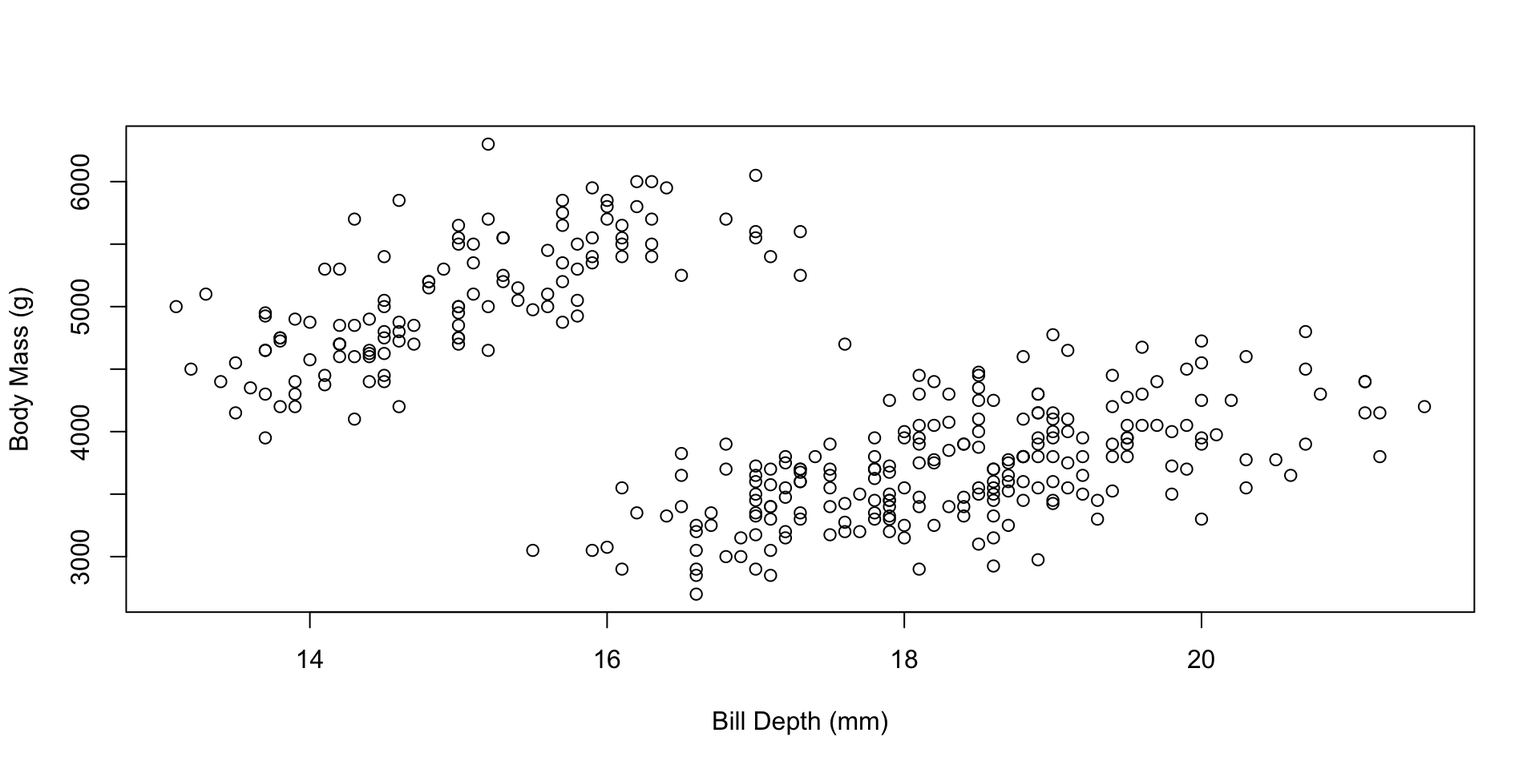
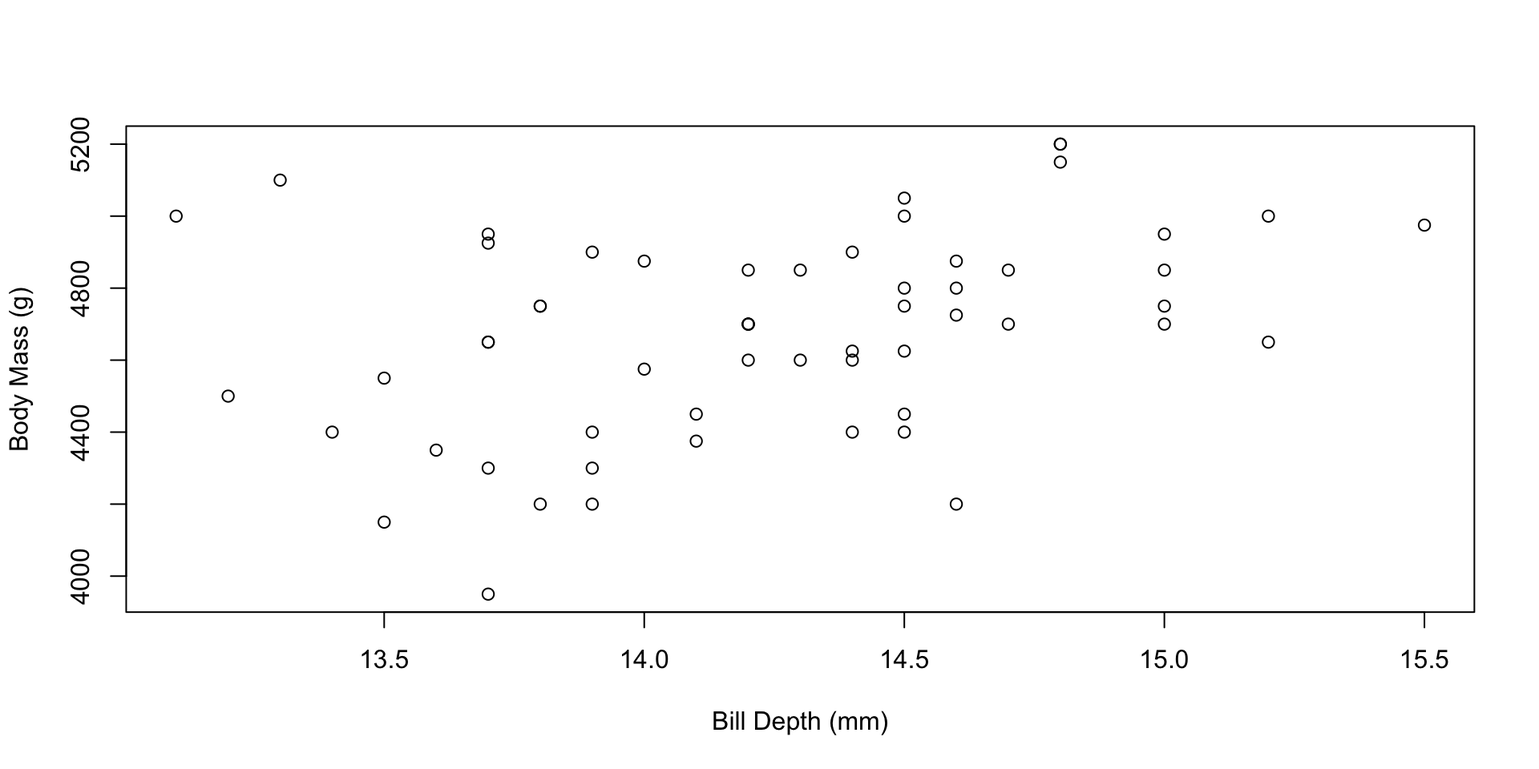
Deleted redundant slides, fixed bugs, and added our names

diff --git a/basics.html b/basics.html
@@ -395,7 +395,8 @@
 <section>
 <section id="r" class="title-slide slide level1 center">
 <h1><code>R</code></h1>
-<p>Basics</p>
+<p>Dr.&nbsp;Miguel Acevedo (University of Florida)</p>
+<p>Dr.&nbsp;Luis J. Villanueva-Rivera (Smithsonian)</p>
 </section>
 <section id="what-is-r" class="slide level2">
 <h2>What is <code>R</code>?</h2>
@@ -829,53 +830,9 @@
 <div class="cell">
 <div class="sourceCode cell-code" id="cb65"><pre class="sourceCode numberSource r number-lines code-with-copy" data-id="quarto-animate-code"><code class="sourceCode r hljs"><span id="cb65-1" class="hljs-ln-code"><a href="#cb65-1"></a><span class="co">#Vector of lizards' weight</span></span>
 <span id="cb65-2" class="hljs-ln-code"><a href="#cb65-2"></a>lizards_weight <span class="ot">&lt;-</span> <span class="fu">c</span>(<span class="fl">2.25</span>, <span class="fl">4.45</span>, <span class="fl">1.75</span>)</span>
-<span id="cb65-3" class="hljs-ln-code"><a href="#cb65-3"></a>lizards_weight <span class="sc">&gt;</span> <span class="dv">2</span></span></code><button title="Copy to Clipboard" class="code-copy-button"><i class="bi"></i></button></pre></div>
-<div class="cell-output cell-output-stdout">
-<pre><code>[1]  TRUE  TRUE FALSE</code></pre>
-</div>
-</div>
-</div>
-</div>
-</section>
-<section id="logic-operators-2" class="slide level2" data-auto-animate="true">
-<h2 data-id="quarto-animate-title">Logic Operators</h2>
-<div class="columns">
-<div class="column" style="width:100%;">
-<ul>
-<li>Allow for comparisons among data types</li>
-</ul>
-<div class="cell">
-<div class="sourceCode cell-code" id="cb67"><pre class="sourceCode numberSource r number-lines code-with-copy"><code class="sourceCode r"><span id="cb67-1"><a href="#cb67-1"></a><span class="co">#Vector of lizards' weight</span></span>
-<span id="cb67-2"><a href="#cb67-2"></a>lizards_weight <span class="ot">&lt;-</span> <span class="fu">c</span>(<span class="fl">2.25</span>, <span class="fl">4.45</span>, <span class="fl">1.75</span>)</span>
-<span id="cb67-3"><a href="#cb67-3"></a>lizards_weight <span class="sc">&gt;</span> <span class="dv">2</span></span></code><button title="Copy to Clipboard" class="code-copy-button"><i class="bi"></i></button></pre></div>
-<div class="cell-output cell-output-stdout">
-<pre><code>[1]  TRUE  TRUE FALSE</code></pre>
-</div>
-<div class="sourceCode cell-code" id="cb69"><pre class="sourceCode numberSource r number-lines code-with-copy"><code class="sourceCode r"><span id="cb69-1"><a href="#cb69-1"></a>lizards_weight[lizards_weight <span class="sc">&gt;</span> <span class="dv">2</span>] <span class="co">#greater than</span></span></code><button title="Copy to Clipboard" class="code-copy-button"><i class="bi"></i></button></pre></div>
+<span id="cb65-3" class="hljs-ln-code"><a href="#cb65-3"></a>lizards_weight[lizards_weight <span class="sc">&gt;</span> <span class="dv">2</span>] <span class="co">#greater than</span></span></code><button title="Copy to Clipboard" class="code-copy-button"><i class="bi"></i></button></pre></div>
 <div class="cell-output cell-output-stdout">
 <pre><code>[1] 2.25 4.45</code></pre>
-</div>
-</div>
-</div>
-</div>
-</section>
-<section id="logic-operators-3" class="slide level2" data-auto-animate="true">
-<h2 data-id="quarto-animate-title">Logic Operators</h2>
-<div class="columns">
-<div class="column" style="width:100%;">
-<ul>
-<li>Allow for comparisons among data types</li>
-</ul>
-<div class="cell">
-<div class="sourceCode cell-code" id="cb71"><pre class="sourceCode numberSource r number-lines code-with-copy"><code class="sourceCode r"><span id="cb71-1"><a href="#cb71-1"></a><span class="co">#Vector of lizards' weight</span></span>
-<span id="cb71-2"><a href="#cb71-2"></a>lizards_weight <span class="ot">&lt;-</span> <span class="fu">c</span>(<span class="fl">2.25</span>, <span class="fl">4.45</span>, <span class="fl">1.75</span>)</span>
-<span id="cb71-3"><a href="#cb71-3"></a>lizards_weight <span class="sc">&gt;</span> <span class="dv">2</span></span></code><button title="Copy to Clipboard" class="code-copy-button"><i class="bi"></i></button></pre></div>
-<div class="cell-output cell-output-stdout">
-<pre><code>[1]  TRUE  TRUE FALSE</code></pre>
-</div>
-<div class="sourceCode cell-code" id="cb73"><pre class="sourceCode numberSource r number-lines code-with-copy"><code class="sourceCode r"><span id="cb73-1"><a href="#cb73-1"></a>lizards_weight[lizards_weight <span class="sc">&lt;</span> <span class="dv">2</span>] <span class="co">#less than</span></span></code><button title="Copy to Clipboard" class="code-copy-button"><i class="bi"></i></button></pre></div>
-<div class="cell-output cell-output-stdout">
-<pre><code>[1] 1.75</code></pre>
 </div>
 </div>
 </div>
@@ -956,8 +913,8 @@
 <div class="columns">
 <div class="column" style="width:100%;">
 <div class="cell">
-<div class="sourceCode cell-code" id="cb75"><pre class="sourceCode numberSource r number-lines code-with-copy" data-id="quarto-animate-code"><code class="sourceCode r hljs"><span id="cb75-1" class="hljs-ln-code"><a href="#cb75-1"></a><span class="co">#simulated vector of female dolphins data</span></span>
-<span id="cb75-2" class="hljs-ln-code"><a href="#cb75-2"></a>dolphins_f <span class="ot">&lt;-</span> <span class="fu">c</span>(<span class="dv">190</span>,<span class="dv">200</span>,<span class="dv">185</span>,<span class="dv">189</span>,<span class="dv">189</span>,<span class="dv">210</span>,<span class="dv">195</span>,<span class="dv">220</span>)</span></code><button title="Copy to Clipboard" class="code-copy-button"><i class="bi"></i></button></pre></div>
+<div class="sourceCode cell-code" id="cb67"><pre class="sourceCode numberSource r number-lines code-with-copy" data-id="quarto-animate-code"><code class="sourceCode r hljs"><span id="cb67-1" class="hljs-ln-code"><a href="#cb67-1"></a><span class="co">#simulated vector of female dolphins data</span></span>
+<span id="cb67-2" class="hljs-ln-code"><a href="#cb67-2"></a>dolphins_f <span class="ot">&lt;-</span> <span class="fu">c</span>(<span class="dv">190</span>,<span class="dv">200</span>,<span class="dv">185</span>,<span class="dv">189</span>,<span class="dv">189</span>,<span class="dv">210</span>,<span class="dv">195</span>,<span class="dv">220</span>)</span></code><button title="Copy to Clipboard" class="code-copy-button"><i class="bi"></i></button></pre></div>
 </div>
 </div>
 </div>
@@ -970,10 +927,10 @@
 <li>Which dolphins in this data set have a weight between 190 and 220 Kg?</li>
 </ul>
 <div class="cell">
-<div class="sourceCode cell-code" id="cb76"><pre class="sourceCode numberSource r number-lines code-with-copy" data-id="quarto-animate-code"><code class="sourceCode r hljs"><span id="cb76-1" class="hljs-ln-code"><a href="#cb76-1"></a><span class="co">#simulated vector of female dolphins data</span></span>
-<span id="cb76-2" class="hljs-ln-code"><a href="#cb76-2"></a>dolphins_f <span class="ot">&lt;-</span> <span class="fu">c</span>(<span class="dv">190</span>,<span class="dv">200</span>,<span class="dv">185</span>,<span class="dv">189</span>,<span class="dv">189</span>,<span class="dv">210</span>,<span class="dv">195</span>,<span class="dv">220</span>)</span>
-<span id="cb76-3" class="hljs-ln-code"><a href="#cb76-3"></a><span class="co">#average female weight is 190</span></span>
-<span id="cb76-4" class="hljs-ln-code"><a href="#cb76-4"></a>dolphins_f[dolphins_f <span class="sc">&gt;</span> <span class="dv">190</span> <span class="sc">&amp;</span> dolphins_f <span class="sc">&lt;</span> <span class="dv">220</span>]</span></code><button title="Copy to Clipboard" class="code-copy-button"><i class="bi"></i></button></pre></div>
+<div class="sourceCode cell-code" id="cb68"><pre class="sourceCode numberSource r number-lines code-with-copy" data-id="quarto-animate-code"><code class="sourceCode r hljs"><span id="cb68-1" class="hljs-ln-code"><a href="#cb68-1"></a><span class="co">#simulated vector of female dolphins data</span></span>
+<span id="cb68-2" class="hljs-ln-code"><a href="#cb68-2"></a>dolphins_f <span class="ot">&lt;-</span> <span class="fu">c</span>(<span class="dv">190</span>,<span class="dv">200</span>,<span class="dv">185</span>,<span class="dv">189</span>,<span class="dv">189</span>,<span class="dv">210</span>,<span class="dv">195</span>,<span class="dv">220</span>)</span>
+<span id="cb68-3" class="hljs-ln-code"><a href="#cb68-3"></a><span class="co">#average female weight is 190</span></span>
+<span id="cb68-4" class="hljs-ln-code"><a href="#cb68-4"></a>dolphins_f[dolphins_f <span class="sc">&gt;</span> <span class="dv">190</span> <span class="sc">&amp;</span> dolphins_f <span class="sc">&lt;</span> <span class="dv">220</span>]</span></code><button title="Copy to Clipboard" class="code-copy-button"><i class="bi"></i></button></pre></div>
 <div class="cell-output cell-output-stdout">
 <pre><code>[1] 200 210 195</code></pre>
 </div>
@@ -989,10 +946,10 @@
 <li>Which dolphins in this data set have a weight between 190 and 220 Kg?</li>
 </ul>
 <div class="cell">
-<div class="sourceCode cell-code" id="cb78"><pre class="sourceCode numberSource r number-lines code-with-copy" data-id="quarto-animate-code"><code class="sourceCode r hljs"><span id="cb78-1" class="hljs-ln-code"><a href="#cb78-1"></a><span class="co">#simulated vector of female dolphins data</span></span>
-<span id="cb78-2" class="hljs-ln-code"><a href="#cb78-2"></a>dolphins_f <span class="ot">&lt;-</span> <span class="fu">c</span>(<span class="dv">190</span>,<span class="dv">200</span>,<span class="dv">185</span>,<span class="dv">189</span>,<span class="dv">189</span>,<span class="dv">210</span>,<span class="dv">195</span>,<span class="dv">220</span>)</span>
-<span id="cb78-3" class="hljs-ln-code"><a href="#cb78-3"></a><span class="co">#average female weight is 190</span></span>
-<span id="cb78-4" class="hljs-ln-code"><a href="#cb78-4"></a>dolphins_f[dolphins_f <span class="sc">&gt;</span> <span class="dv">190</span> <span class="sc">&amp;</span> dolphins_f <span class="sc">&lt;</span> <span class="dv">220</span>]</span></code><button title="Copy to Clipboard" class="code-copy-button"><i class="bi"></i></button></pre></div>
+<div class="sourceCode cell-code" id="cb70"><pre class="sourceCode numberSource r number-lines code-with-copy" data-id="quarto-animate-code"><code class="sourceCode r hljs"><span id="cb70-1" class="hljs-ln-code"><a href="#cb70-1"></a><span class="co">#simulated vector of female dolphins data</span></span>
+<span id="cb70-2" class="hljs-ln-code"><a href="#cb70-2"></a>dolphins_f <span class="ot">&lt;-</span> <span class="fu">c</span>(<span class="dv">190</span>,<span class="dv">200</span>,<span class="dv">185</span>,<span class="dv">189</span>,<span class="dv">189</span>,<span class="dv">210</span>,<span class="dv">195</span>,<span class="dv">220</span>)</span>
+<span id="cb70-3" class="hljs-ln-code"><a href="#cb70-3"></a><span class="co">#average female weight is 190</span></span>
+<span id="cb70-4" class="hljs-ln-code"><a href="#cb70-4"></a>dolphins_f[dolphins_f <span class="sc">&gt;</span> <span class="dv">190</span> <span class="sc">&amp;</span> dolphins_f <span class="sc">&lt;</span> <span class="dv">220</span>]</span></code><button title="Copy to Clipboard" class="code-copy-button"><i class="bi"></i></button></pre></div>
 <div class="cell-output cell-output-stdout">
 <pre><code>[1] 200 210 195</code></pre>
 </div>
@@ -1020,9 +977,9 @@
 <div class="columns">
 <div class="column" style="width:100%;">
 <div class="cell">
-<div class="sourceCode cell-code" id="cb80"><pre class="sourceCode numberSource r number-lines code-with-copy"><code class="sourceCode r"><span id="cb80-1"><a href="#cb80-1"></a><span class="co">#Install R packages</span></span>
-<span id="cb80-2"><a href="#cb80-2"></a><span class="co">#install.packages("palmerpenguins") #this installs the package</span></span>
-<span id="cb80-3"><a href="#cb80-3"></a><span class="fu">library</span>(palmerpenguins) <span class="co">#this loads the package into our workspace</span></span></code><button title="Copy to Clipboard" class="code-copy-button"><i class="bi"></i></button></pre></div>
+<div class="sourceCode cell-code" id="cb72"><pre class="sourceCode numberSource r number-lines code-with-copy"><code class="sourceCode r"><span id="cb72-1"><a href="#cb72-1"></a><span class="co">#Install R packages</span></span>
+<span id="cb72-2"><a href="#cb72-2"></a><span class="co">#install.packages("palmerpenguins") #this installs the package</span></span>
+<span id="cb72-3"><a href="#cb72-3"></a><span class="fu">library</span>(palmerpenguins) <span class="co">#this loads the package into our workspace</span></span></code><button title="Copy to Clipboard" class="code-copy-button"><i class="bi"></i></button></pre></div>
 </div>
 </div>
 </div>
@@ -1065,8 +1022,8 @@
 <li><code>head()</code> and <code>tail()</code> functions</li>
 </ul>
 <div class="cell">
-<div class="sourceCode cell-code" id="cb81"><pre class="sourceCode numberSource r number-lines code-with-copy"><code class="sourceCode r"><span id="cb81-1"><a href="#cb81-1"></a><span class="co">#head shows the first six rows</span></span>
-<span id="cb81-2"><a href="#cb81-2"></a><span class="fu">head</span>(penguins)</span></code><button title="Copy to Clipboard" class="code-copy-button"><i class="bi"></i></button></pre></div>
+<div class="sourceCode cell-code" id="cb73"><pre class="sourceCode numberSource r number-lines code-with-copy"><code class="sourceCode r"><span id="cb73-1"><a href="#cb73-1"></a><span class="co">#head shows the first six rows</span></span>
+<span id="cb73-2"><a href="#cb73-2"></a><span class="fu">head</span>(penguins)</span></code><button title="Copy to Clipboard" class="code-copy-button"><i class="bi"></i></button></pre></div>
 <div class="cell-output cell-output-stdout">
 <pre><code># A tibble: 6 × 8
   species island    bill_length_mm bill_depth_mm flipper_length_mm body_mass_g
@@ -1091,8 +1048,8 @@
 <li><code>head()</code> and <code>tail()</code> functions</li>
 </ul>
 <div class="cell">
-<div class="sourceCode cell-code" id="cb83"><pre class="sourceCode numberSource r number-lines code-with-copy"><code class="sourceCode r"><span id="cb83-1"><a href="#cb83-1"></a><span class="co">#head shows the last six rows</span></span>
-<span id="cb83-2"><a href="#cb83-2"></a><span class="fu">tail</span>(penguins)</span></code><button title="Copy to Clipboard" class="code-copy-button"><i class="bi"></i></button></pre></div>
+<div class="sourceCode cell-code" id="cb75"><pre class="sourceCode numberSource r number-lines code-with-copy"><code class="sourceCode r"><span id="cb75-1"><a href="#cb75-1"></a><span class="co">#head shows the last six rows</span></span>
+<span id="cb75-2"><a href="#cb75-2"></a><span class="fu">tail</span>(penguins)</span></code><button title="Copy to Clipboard" class="code-copy-button"><i class="bi"></i></button></pre></div>
 <div class="cell-output cell-output-stdout">
 <pre><code># A tibble: 6 × 8
   species   island bill_length_mm bill_depth_mm flipper_length_mm body_mass_g
@@ -1109,25 +1066,6 @@
 </div>
 </div>
 </section>
-<section id="penguins-data-frame-2" class="slide level2">
-<h2>Penguins Data Frame</h2>
-<div class="columns">
-<div class="column" style="width:100%;">
-<ul>
-<li><code>names()</code> function to see column names</li>
-</ul>
-<div class="cell">
-<div class="sourceCode cell-code" id="cb85"><pre class="sourceCode numberSource r number-lines code-with-copy"><code class="sourceCode r"><span id="cb85-1"><a href="#cb85-1"></a><span class="co">#head shows the last six rows</span></span>
-<span id="cb85-2"><a href="#cb85-2"></a><span class="fu">names</span>(penguins)</span></code><button title="Copy to Clipboard" class="code-copy-button"><i class="bi"></i></button></pre></div>
-<div class="cell-output cell-output-stdout">
-<pre><code>[1] "species"           "island"            "bill_length_mm"   
-[4] "bill_depth_mm"     "flipper_length_mm" "body_mass_g"      
-[7] "sex"               "year"             </code></pre>
-</div>
-</div>
-</div>
-</div>
-</section>
 <section id="the-operator" class="slide level2">
 <h2>The <code>$</code> operator</h2>
 <div class="columns">
@@ -1136,62 +1074,7 @@
 <li>Use the <code>$</code> operator to access columns</li>
 </ul>
 <div class="cell">
-<div class="sourceCode cell-code" id="cb87"><pre class="sourceCode numberSource r number-lines code-with-copy"><code class="sourceCode r"><span id="cb87-1"><a href="#cb87-1"></a><span class="co">#head shows the last six rows</span></span>
-<span id="cb87-2"><a href="#cb87-2"></a>penguins<span class="sc">$</span>island</span></code><button title="Copy to Clipboard" class="code-copy-button"><i class="bi"></i></button></pre></div>
-<div class="cell-output cell-output-stdout">
-<pre><code>  [1] Torgersen Torgersen Torgersen Torgersen Torgersen Torgersen Torgersen
-  [8] Torgersen Torgersen Torgersen Torgersen Torgersen Torgersen Torgersen
- [15] Torgersen Torgersen Torgersen Torgersen Torgersen Torgersen Biscoe   
- [22] Biscoe    Biscoe    Biscoe    Biscoe    Biscoe    Biscoe    Biscoe   
- [29] Biscoe    Biscoe    Dream     Dream     Dream     Dream     Dream    
- [36] Dream     Dream     Dream     Dream     Dream     Dream     Dream    
- [43] Dream     Dream     Dream     Dream     Dream     Dream     Dream    
- [50] Dream     Biscoe    Biscoe    Biscoe    Biscoe    Biscoe    Biscoe   
- [57] Biscoe    Biscoe    Biscoe    Biscoe    Biscoe    Biscoe    Biscoe   
- [64] Biscoe    Biscoe    Biscoe    Biscoe    Biscoe    Torgersen Torgersen
- [71] Torgersen Torgersen Torgersen Torgersen Torgersen Torgersen Torgersen
- [78] Torgersen Torgersen Torgersen Torgersen Torgersen Torgersen Torgersen
- [85] Dream     Dream     Dream     Dream     Dream     Dream     Dream    
- [92] Dream     Dream     Dream     Dream     Dream     Dream     Dream    
- [99] Dream     Dream     Biscoe    Biscoe    Biscoe    Biscoe    Biscoe   
-[106] Biscoe    Biscoe    Biscoe    Biscoe    Biscoe    Biscoe    Biscoe   
-[113] Biscoe    Biscoe    Biscoe    Biscoe    Torgersen Torgersen Torgersen
-[120] Torgersen Torgersen Torgersen Torgersen Torgersen Torgersen Torgersen
-[127] Torgersen Torgersen Torgersen Torgersen Torgersen Torgersen Dream    
-[134] Dream     Dream     Dream     Dream     Dream     Dream     Dream    
-[141] Dream     Dream     Dream     Dream     Dream     Dream     Dream    
-[148] Dream     Dream     Dream     Dream     Dream     Biscoe    Biscoe   
-[155] Biscoe    Biscoe    Biscoe    Biscoe    Biscoe    Biscoe    Biscoe   
-[162] Biscoe    Biscoe    Biscoe    Biscoe    Biscoe    Biscoe    Biscoe   
-[169] Biscoe    Biscoe    Biscoe    Biscoe    Biscoe    Biscoe    Biscoe   
-[176] Biscoe    Biscoe    Biscoe    Biscoe    Biscoe    Biscoe    Biscoe   
-[183] Biscoe    Biscoe    Biscoe    Biscoe    Biscoe    Biscoe    Biscoe   
-[190] Biscoe    Biscoe    Biscoe    Biscoe    Biscoe    Biscoe    Biscoe   
-[197] Biscoe    Biscoe    Biscoe    Biscoe    Biscoe    Biscoe    Biscoe   
-[204] Biscoe    Biscoe    Biscoe    Biscoe    Biscoe    Biscoe    Biscoe   
-[211] Biscoe    Biscoe    Biscoe    Biscoe    Biscoe    Biscoe    Biscoe   
-[218] Biscoe    Biscoe    Biscoe    Biscoe    Biscoe    Biscoe    Biscoe   
-[225] Biscoe    Biscoe    Biscoe    Biscoe    Biscoe    Biscoe    Biscoe   
-[232] Biscoe    Biscoe    Biscoe    Biscoe    Biscoe    Biscoe    Biscoe   
-[239] Biscoe    Biscoe    Biscoe    Biscoe    Biscoe    Biscoe    Biscoe   
-[246] Biscoe    Biscoe    Biscoe    Biscoe    Biscoe    Biscoe    Biscoe   
-[253] Biscoe    Biscoe    Biscoe    Biscoe    Biscoe    Biscoe    Biscoe   
-[260] Biscoe    Biscoe    Biscoe    Biscoe    Biscoe    Biscoe    Biscoe   
-[267] Biscoe    Biscoe    Biscoe    Biscoe    Biscoe    Biscoe    Biscoe   
-[274] Biscoe    Biscoe    Biscoe    Dream     Dream     Dream     Dream    
-[281] Dream     Dream     Dream     Dream     Dream     Dream     Dream    
-[288] Dream     Dream     Dream     Dream     Dream     Dream     Dream    
-[295] Dream     Dream     Dream     Dream     Dream     Dream     Dream    
-[302] Dream     Dream     Dream     Dream     Dream     Dream     Dream    
-[309] Dream     Dream     Dream     Dream     Dream     Dream     Dream    
-[316] Dream     Dream     Dream     Dream     Dream     Dream     Dream    
-[323] Dream     Dream     Dream     Dream     Dream     Dream     Dream    
-[330] Dream     Dream     Dream     Dream     Dream     Dream     Dream    
-[337] Dream     Dream     Dream     Dream     Dream     Dream     Dream    
-[344] Dream    
-Levels: Biscoe Dream Torgersen</code></pre>
-</div>
-<div class="sourceCode cell-code" id="cb89"><pre class="sourceCode numberSource r number-lines code-with-copy"><code class="sourceCode r"><span id="cb89-1"><a href="#cb89-1"></a>penguins<span class="sc">$</span>body_mass_g</span></code><button title="Copy to Clipboard" class="code-copy-button"><i class="bi"></i></button></pre></div>
+<div class="sourceCode cell-code" id="cb77"><pre class="sourceCode numberSource r number-lines code-with-copy"><code class="sourceCode r"><span id="cb77-1"><a href="#cb77-1"></a>penguins<span class="sc">$</span>body_mass_g</span></code><button title="Copy to Clipboard" class="code-copy-button"><i class="bi"></i></button></pre></div>
 <div class="cell-output cell-output-stdout">
 <pre><code>  [1] 3750 3800 3250   NA 3450 3650 3625 4675 3475 4250 3300 3700 3200 3800 4400
  [16] 3700 3450 4500 3325 4200 3400 3600 3800 3950 3800 3800 3550 3200 3150 3950
@@ -1226,36 +1109,36 @@ Levels: Biscoe Dream Torgersen</code></pre>
 <div class="columns">
 <div class="column" style="width:100%;">
 <ul>
-<li><code>mean()</code> bill length of all penguins</li>
+<li><code>mean()</code> body mass</li>
 </ul>
 <div class="cell">
-<div class="sourceCode cell-code" id="cb91"><pre class="sourceCode numberSource r number-lines code-with-copy"><code class="sourceCode r"><span id="cb91-1"><a href="#cb91-1"></a>penguins<span class="sc">$</span>bill_length_mm</span></code><button title="Copy to Clipboard" class="code-copy-button"><i class="bi"></i></button></pre></div>
+<div class="sourceCode cell-code" id="cb79"><pre class="sourceCode numberSource r number-lines code-with-copy"><code class="sourceCode r"><span id="cb79-1"><a href="#cb79-1"></a>penguins<span class="sc">$</span>body_mass_g</span></code><button title="Copy to Clipboard" class="code-copy-button"><i class="bi"></i></button></pre></div>
 <div class="cell-output cell-output-stdout">
-<pre><code>  [1] 39.1 39.5 40.3   NA 36.7 39.3 38.9 39.2 34.1 42.0 37.8 37.8 41.1 38.6 34.6
- [16] 36.6 38.7 42.5 34.4 46.0 37.8 37.7 35.9 38.2 38.8 35.3 40.6 40.5 37.9 40.5
- [31] 39.5 37.2 39.5 40.9 36.4 39.2 38.8 42.2 37.6 39.8 36.5 40.8 36.0 44.1 37.0
- [46] 39.6 41.1 37.5 36.0 42.3 39.6 40.1 35.0 42.0 34.5 41.4 39.0 40.6 36.5 37.6
- [61] 35.7 41.3 37.6 41.1 36.4 41.6 35.5 41.1 35.9 41.8 33.5 39.7 39.6 45.8 35.5
- [76] 42.8 40.9 37.2 36.2 42.1 34.6 42.9 36.7 35.1 37.3 41.3 36.3 36.9 38.3 38.9
- [91] 35.7 41.1 34.0 39.6 36.2 40.8 38.1 40.3 33.1 43.2 35.0 41.0 37.7 37.8 37.9
-[106] 39.7 38.6 38.2 38.1 43.2 38.1 45.6 39.7 42.2 39.6 42.7 38.6 37.3 35.7 41.1
-[121] 36.2 37.7 40.2 41.4 35.2 40.6 38.8 41.5 39.0 44.1 38.5 43.1 36.8 37.5 38.1
-[136] 41.1 35.6 40.2 37.0 39.7 40.2 40.6 32.1 40.7 37.3 39.0 39.2 36.6 36.0 37.8
-[151] 36.0 41.5 46.1 50.0 48.7 50.0 47.6 46.5 45.4 46.7 43.3 46.8 40.9 49.0 45.5
-[166] 48.4 45.8 49.3 42.0 49.2 46.2 48.7 50.2 45.1 46.5 46.3 42.9 46.1 44.5 47.8
-[181] 48.2 50.0 47.3 42.8 45.1 59.6 49.1 48.4 42.6 44.4 44.0 48.7 42.7 49.6 45.3
-[196] 49.6 50.5 43.6 45.5 50.5 44.9 45.2 46.6 48.5 45.1 50.1 46.5 45.0 43.8 45.5
-[211] 43.2 50.4 45.3 46.2 45.7 54.3 45.8 49.8 46.2 49.5 43.5 50.7 47.7 46.4 48.2
-[226] 46.5 46.4 48.6 47.5 51.1 45.2 45.2 49.1 52.5 47.4 50.0 44.9 50.8 43.4 51.3
-[241] 47.5 52.1 47.5 52.2 45.5 49.5 44.5 50.8 49.4 46.9 48.4 51.1 48.5 55.9 47.2
-[256] 49.1 47.3 46.8 41.7 53.4 43.3 48.1 50.5 49.8 43.5 51.5 46.2 55.1 44.5 48.8
-[271] 47.2   NA 46.8 50.4 45.2 49.9 46.5 50.0 51.3 45.4 52.7 45.2 46.1 51.3 46.0
-[286] 51.3 46.6 51.7 47.0 52.0 45.9 50.5 50.3 58.0 46.4 49.2 42.4 48.5 43.2 50.6
-[301] 46.7 52.0 50.5 49.5 46.4 52.8 40.9 54.2 42.5 51.0 49.7 47.5 47.6 52.0 46.9
-[316] 53.5 49.0 46.2 50.9 45.5 50.9 50.8 50.1 49.0 51.5 49.8 48.1 51.4 45.7 50.7
-[331] 42.5 52.2 45.2 49.3 50.2 45.6 51.9 46.8 45.7 55.8 43.5 49.6 50.8 50.2</code></pre>
+<pre><code>  [1] 3750 3800 3250   NA 3450 3650 3625 4675 3475 4250 3300 3700 3200 3800 4400
+ [16] 3700 3450 4500 3325 4200 3400 3600 3800 3950 3800 3800 3550 3200 3150 3950
+ [31] 3250 3900 3300 3900 3325 4150 3950 3550 3300 4650 3150 3900 3100 4400 3000
+ [46] 4600 3425 2975 3450 4150 3500 4300 3450 4050 2900 3700 3550 3800 2850 3750
+ [61] 3150 4400 3600 4050 2850 3950 3350 4100 3050 4450 3600 3900 3550 4150 3700
+ [76] 4250 3700 3900 3550 4000 3200 4700 3800 4200 3350 3550 3800 3500 3950 3600
+ [91] 3550 4300 3400 4450 3300 4300 3700 4350 2900 4100 3725 4725 3075 4250 2925
+[106] 3550 3750 3900 3175 4775 3825 4600 3200 4275 3900 4075 2900 3775 3350 3325
+[121] 3150 3500 3450 3875 3050 4000 3275 4300 3050 4000 3325 3500 3500 4475 3425
+[136] 3900 3175 3975 3400 4250 3400 3475 3050 3725 3000 3650 4250 3475 3450 3750
+[151] 3700 4000 4500 5700 4450 5700 5400 4550 4800 5200 4400 5150 4650 5550 4650
+[166] 5850 4200 5850 4150 6300 4800 5350 5700 5000 4400 5050 5000 5100 4100 5650
+[181] 4600 5550 5250 4700 5050 6050 5150 5400 4950 5250 4350 5350 3950 5700 4300
+[196] 4750 5550 4900 4200 5400 5100 5300 4850 5300 4400 5000 4900 5050 4300 5000
+[211] 4450 5550 4200 5300 4400 5650 4700 5700 4650 5800 4700 5550 4750 5000 5100
+[226] 5200 4700 5800 4600 6000 4750 5950 4625 5450 4725 5350 4750 5600 4600 5300
+[241] 4875 5550 4950 5400 4750 5650 4850 5200 4925 4875 4625 5250 4850 5600 4975
+[256] 5500 4725 5500 4700 5500 4575 5500 5000 5950 4650 5500 4375 5850 4875 6000
+[271] 4925   NA 4850 5750 5200 5400 3500 3900 3650 3525 3725 3950 3250 3750 4150
+[286] 3700 3800 3775 3700 4050 3575 4050 3300 3700 3450 4400 3600 3400 2900 3800
+[301] 3300 4150 3400 3800 3700 4550 3200 4300 3350 4100 3600 3900 3850 4800 2700
+[316] 4500 3950 3650 3550 3500 3675 4450 3400 4300 3250 3675 3325 3950 3600 4050
+[331] 3350 3450 3250 4050 3800 3525 3950 3650 3650 4000 3400 3775 4100 3775</code></pre>
 </div>
-<div class="sourceCode cell-code" id="cb93"><pre class="sourceCode numberSource r number-lines code-with-copy"><code class="sourceCode r"><span id="cb93-1"><a href="#cb93-1"></a><span class="fu">mean</span>(penguins<span class="sc">$</span>bill_length_mm)</span></code><button title="Copy to Clipboard" class="code-copy-button"><i class="bi"></i></button></pre></div>
+<div class="sourceCode cell-code" id="cb81"><pre class="sourceCode numberSource r number-lines code-with-copy"><code class="sourceCode r"><span id="cb81-1"><a href="#cb81-1"></a><span class="fu">mean</span>(penguins<span class="sc">$</span>body_mass_g)</span></code><button title="Copy to Clipboard" class="code-copy-button"><i class="bi"></i></button></pre></div>
 <div class="cell-output cell-output-stdout">
 <pre><code>[1] NA</code></pre>
 </div>
@@ -1268,12 +1151,12 @@ Levels: Biscoe Dream Torgersen</code></pre>
 <div class="columns">
 <div class="column" style="width:100%;">
 <ul>
-<li><code>mean()</code> bill length of all penguins</li>
+<li><code>mean()</code> body mass</li>
 </ul>
 <div class="cell">
-<div class="sourceCode cell-code" id="cb95"><pre class="sourceCode numberSource r number-lines code-with-copy"><code class="sourceCode r"><span id="cb95-1"><a href="#cb95-1"></a><span class="fu">mean</span>(penguins<span class="sc">$</span>bill_length_mm,<span class="at">na.rm=</span><span class="cn">TRUE</span>)</span></code><button title="Copy to Clipboard" class="code-copy-button"><i class="bi"></i></button></pre></div>
+<div class="sourceCode cell-code" id="cb83"><pre class="sourceCode numberSource r number-lines code-with-copy"><code class="sourceCode r"><span id="cb83-1"><a href="#cb83-1"></a><span class="fu">mean</span>(penguins<span class="sc">$</span>body_mass_g,<span class="at">na.rm=</span><span class="cn">TRUE</span>)</span></code><button title="Copy to Clipboard" class="code-copy-button"><i class="bi"></i></button></pre></div>
 <div class="cell-output cell-output-stdout">
-<pre><code>[1] 43.92193</code></pre>
+<pre><code>[1] 4201.754</code></pre>
 </div>
 </div>
 </div>
@@ -1287,8 +1170,8 @@ Levels: Biscoe Dream Torgersen</code></pre>
 <li>What is the mean body mass of gentoo males?</li>
 </ul>
 <div class="cell">
-<div class="sourceCode cell-code" id="cb97"><pre class="sourceCode numberSource r number-lines code-with-copy"><code class="sourceCode r"><span id="cb97-1"><a href="#cb97-1"></a><span class="fu">mean</span>(penguins<span class="sc">$</span>body_mass_g[penguins<span class="sc">$</span>species<span class="sc">==</span><span class="st">"Gentoo"</span> </span>
-<span id="cb97-2"><a href="#cb97-2"></a>                          <span class="sc">&amp;</span> penguins<span class="sc">$</span>sex<span class="sc">==</span><span class="st">"male"</span>],<span class="at">na.rm =</span> <span class="cn">TRUE</span>)</span></code><button title="Copy to Clipboard" class="code-copy-button"><i class="bi"></i></button></pre></div>
+<div class="sourceCode cell-code" id="cb85"><pre class="sourceCode numberSource r number-lines code-with-copy"><code class="sourceCode r"><span id="cb85-1"><a href="#cb85-1"></a><span class="fu">mean</span>(penguins<span class="sc">$</span>body_mass_g[penguins<span class="sc">$</span>species<span class="sc">==</span><span class="st">"Gentoo"</span> </span>
+<span id="cb85-2"><a href="#cb85-2"></a>                          <span class="sc">&amp;</span> penguins<span class="sc">$</span>sex<span class="sc">==</span><span class="st">"male"</span>],<span class="at">na.rm =</span> <span class="cn">TRUE</span>)</span></code><button title="Copy to Clipboard" class="code-copy-button"><i class="bi"></i></button></pre></div>
 <div class="cell-output cell-output-stdout">
 <pre><code>[1] 5484.836</code></pre>
 </div>
@@ -1316,10 +1199,10 @@ Levels: Biscoe Dream Torgersen</code></pre>
 <div class="columns">
 <div class="column" style="width:100%;">
 <div class="cell">
-<div class="sourceCode cell-code" id="cb99"><pre class="sourceCode numberSource r number-lines code-with-copy"><code class="sourceCode r"><span id="cb99-1"><a href="#cb99-1"></a><span class="fu">hist</span>(penguins<span class="sc">$</span>body_mass_g,<span class="at">main=</span><span class="st">""</span>,</span>
-<span id="cb99-2"><a href="#cb99-2"></a>     <span class="at">xlab=</span><span class="st">"Bodymass (g)"</span>)</span></code><button title="Copy to Clipboard" class="code-copy-button"><i class="bi"></i></button></pre></div>
+<div class="sourceCode cell-code" id="cb87"><pre class="sourceCode numberSource r number-lines code-with-copy"><code class="sourceCode r"><span id="cb87-1"><a href="#cb87-1"></a><span class="fu">hist</span>(penguins<span class="sc">$</span>body_mass_g,<span class="at">main=</span><span class="st">""</span>,</span>
+<span id="cb87-2"><a href="#cb87-2"></a>     <span class="at">xlab=</span><span class="st">"Bodymass (g)"</span>)</span></code><button title="Copy to Clipboard" class="code-copy-button"><i class="bi"></i></button></pre></div>
 <div class="cell-output-display">
-<p><img data-src="basics_files/figure-revealjs/unnamed-chunk-33-1.png" width="960"></p>
+<p><img data-src="basics_files/figure-revealjs/unnamed-chunk-30-1.png" width="960"></p>
 </div>
 </div>
 </div>
@@ -1330,11 +1213,11 @@ Levels: Biscoe Dream Torgersen</code></pre>
 <div class="columns">
 <div class="column" style="width:100%;">
 <div class="cell">
-<div class="sourceCode cell-code" id="cb100"><pre class="sourceCode numberSource r number-lines code-with-copy"><code class="sourceCode r"><span id="cb100-1"><a href="#cb100-1"></a><span class="co">#Scatter plot</span></span>
-<span id="cb100-2"><a href="#cb100-2"></a><span class="fu">plot</span>(penguins<span class="sc">$</span>bill_depth_mm,penguins<span class="sc">$</span>body_mass_g,</span>
-<span id="cb100-3"><a href="#cb100-3"></a>     <span class="at">xlab=</span><span class="st">"Bill Depth (mm)"</span>, <span class="at">ylab=</span><span class="st">"Body Mass (g)"</span>)</span></code><button title="Copy to Clipboard" class="code-copy-button"><i class="bi"></i></button></pre></div>
+<div class="sourceCode cell-code" id="cb88"><pre class="sourceCode numberSource r number-lines code-with-copy"><code class="sourceCode r"><span id="cb88-1"><a href="#cb88-1"></a><span class="co">#Scatter plot</span></span>
+<span id="cb88-2"><a href="#cb88-2"></a><span class="fu">plot</span>(penguins<span class="sc">$</span>bill_depth_mm,penguins<span class="sc">$</span>body_mass_g,</span>
+<span id="cb88-3"><a href="#cb88-3"></a>     <span class="at">xlab=</span><span class="st">"Bill Depth (mm)"</span>, <span class="at">ylab=</span><span class="st">"Body Mass (g)"</span>)</span></code><button title="Copy to Clipboard" class="code-copy-button"><i class="bi"></i></button></pre></div>
 <div class="cell-output-display">
-<p><img data-src="basics_files/figure-revealjs/unnamed-chunk-34-1.png" width="960"></p>
+<p><img data-src="basics_files/figure-revealjs/unnamed-chunk-31-1.png" width="960"></p>
 </div>
 </div>
 </div>
@@ -1345,7 +1228,8 @@ Levels: Biscoe Dream Torgersen</code></pre>
 <div class="columns">
 <div class="column" style="width:100%;">
 <ul>
-<li>Make a scatter plot of bill depth and body mass, -…but only for females of the species Gentoo.</li>
+<li>Make a scatter plot of bill depth (<span class="math inline">\(x\)</span>-axis) vs.&nbsp;body mass (<span class="math inline">\(y\)</span>-axis), …but only for females of the species Gentoo.</li>
+<li>Remember to label the axes correctly including measuring units</li>
 </ul>
 </div>
 </div>
@@ -1355,14 +1239,14 @@ Levels: Biscoe Dream Torgersen</code></pre>
 <div class="columns">
 <div class="column" style="width:100%;">
 <div class="cell">
-<div class="sourceCode cell-code" id="cb101"><pre class="sourceCode numberSource r number-lines code-with-copy"><code class="sourceCode r"><span id="cb101-1"><a href="#cb101-1"></a><span class="co">#Scatter plot</span></span>
-<span id="cb101-2"><a href="#cb101-2"></a><span class="fu">plot</span>(penguins<span class="sc">$</span>bill_depth_mm[penguins<span class="sc">$</span>species<span class="sc">==</span><span class="st">"Gentoo"</span> </span>
-<span id="cb101-3"><a href="#cb101-3"></a>                            <span class="sc">&amp;</span> penguins<span class="sc">$</span>sex<span class="sc">==</span><span class="st">"female"</span>],</span>
-<span id="cb101-4"><a href="#cb101-4"></a>     penguins<span class="sc">$</span>body_mass_g[penguins<span class="sc">$</span>species<span class="sc">==</span><span class="st">"Gentoo"</span> </span>
-<span id="cb101-5"><a href="#cb101-5"></a>                            <span class="sc">&amp;</span> penguins<span class="sc">$</span>sex<span class="sc">==</span><span class="st">"female"</span>],</span>
-<span id="cb101-6"><a href="#cb101-6"></a>     <span class="at">xlab=</span><span class="st">"Bill Depth (mm)"</span>, <span class="at">ylab=</span><span class="st">"Body Mass (g)"</span>)</span></code><button title="Copy to Clipboard" class="code-copy-button"><i class="bi"></i></button></pre></div>
+<div class="sourceCode cell-code" id="cb89"><pre class="sourceCode numberSource r number-lines code-with-copy"><code class="sourceCode r"><span id="cb89-1"><a href="#cb89-1"></a><span class="co">#Scatter plot</span></span>
+<span id="cb89-2"><a href="#cb89-2"></a><span class="fu">plot</span>(penguins<span class="sc">$</span>bill_depth_mm[penguins<span class="sc">$</span>species<span class="sc">==</span><span class="st">"Gentoo"</span> </span>
+<span id="cb89-3"><a href="#cb89-3"></a>                            <span class="sc">&amp;</span> penguins<span class="sc">$</span>sex<span class="sc">==</span><span class="st">"female"</span>],</span>
+<span id="cb89-4"><a href="#cb89-4"></a>     penguins<span class="sc">$</span>body_mass_g[penguins<span class="sc">$</span>species<span class="sc">==</span><span class="st">"Gentoo"</span> </span>
+<span id="cb89-5"><a href="#cb89-5"></a>                            <span class="sc">&amp;</span> penguins<span class="sc">$</span>sex<span class="sc">==</span><span class="st">"female"</span>],</span>
+<span id="cb89-6"><a href="#cb89-6"></a>     <span class="at">xlab=</span><span class="st">"Bill Depth (mm)"</span>, <span class="at">ylab=</span><span class="st">"Body Mass (g)"</span>)</span></code><button title="Copy to Clipboard" class="code-copy-button"><i class="bi"></i></button></pre></div>
 <div class="cell-output-display">
-<p><img data-src="basics_files/figure-revealjs/unnamed-chunk-35-1.png" width="960"></p>
+<p><img data-src="basics_files/figure-revealjs/unnamed-chunk-32-1.png" width="960"></p>
 </div>
 </div>
 </div>
